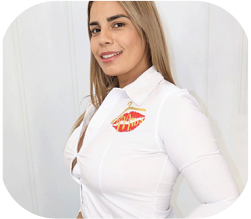
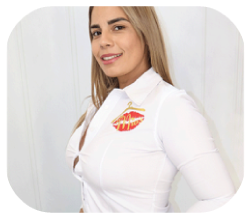
ready

diff --git a/css/styles.css b/css/styles.css
@@ -378,7 +378,6 @@ main div {
   width: 100%;
   height: 100%;
   z-index: 1;
-  border: 3px solid white;
   border-radius: 94px;
 }
 
@@ -1361,7 +1360,6 @@ footer address {
     margin-top: 1rem;
     margin-left: -1.5rem;
     margin-right: 1.5rem;
-    border: 5px solid white;
   }
 
   #winners .group .competitor-group .actions {
